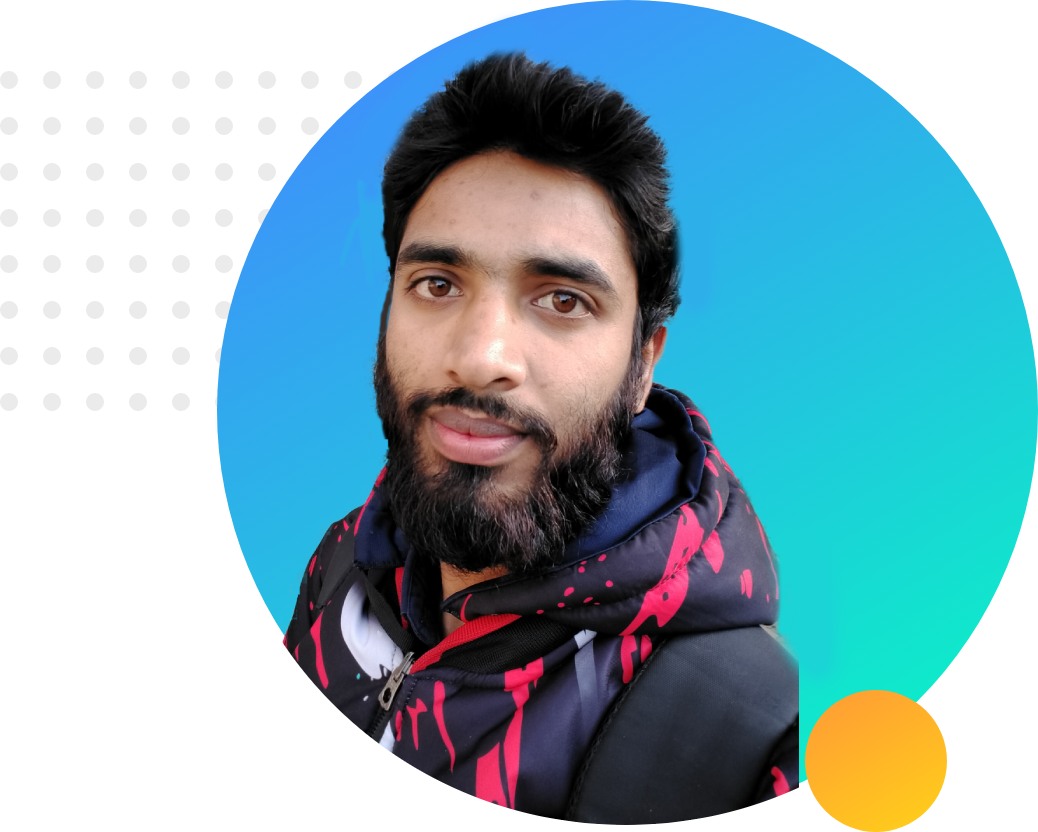
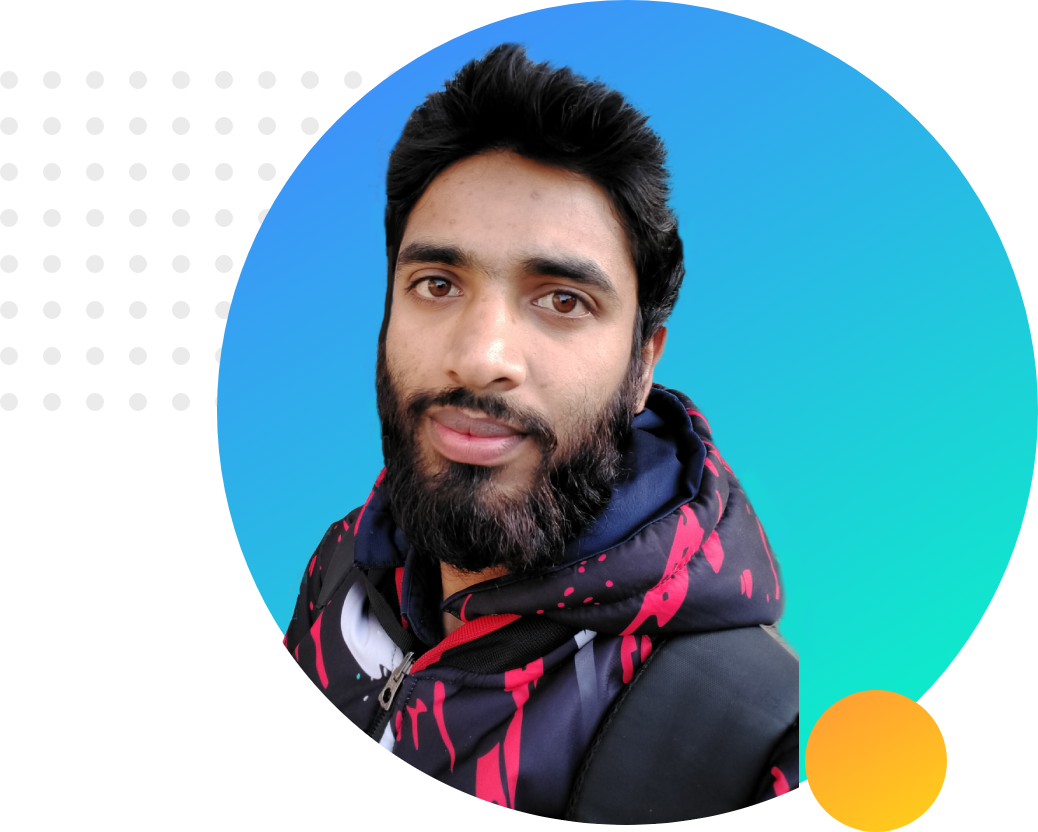
web portfolio

diff --git a/index.html b/index.html
@@ -12,14 +12,48 @@
     <section class="top-banner">
         <div class="half-width">
             <h1>Welcome To</h1>
-            <h1><span class="name-highlight">Sayem Parvez</span> Website</h1>
-            <h3>Word-Class Professional Web Developer</h3>
-            <p>You might saw me jumping, climbing buildings, and stopping trains. But nobody pays me a dime for that work. That's why I am learning and mastering web development. I will not stop until I become the Web Development Hero.</p>
+            <h1><span class="orange-highlight">Sayem</span> Website</h1>
+            <h3>World-Class Professional Web Developer</h3>
+            <p>You might saw me jumping, climbing buildings, and stopping trains. But nobody pays me a dime for that work. That's why I am learning and mastering web development. I will not stop until I become the Web Development Hero.
+            </p>
             <a class="link-button" target="_blank" href="https://web.programming-hero.com/"> HIRE ME</a>
         </div>
         <div class="half-width">
-            <img src="images/profile1.png" alt="">
+            <img src="images/profile2.png" alt="">
         </div>
     </section>
+    <section class="bottom-banner">
+        <div class="half-width">
+            <img src="images/profile1.png" alt="">
+        </div>
+        <div class="half-width">
+            <h2>Dream Big</h1>
+            <h3>Become a Web Developer</h3>
+            <p>
+                I already learned the basic HTML and CSS. I can build any simple website. I can even teach my grandma how to make simple website. My goal is to build 3 websites and learn advanced topics
+            </p>
+            <a class="link-button" target="_blank" href="https://web.programming-hero.com/">DOWNLOAD RESUME</a>
+        </div>
+    </section>
+    <section class="experienxe-area">
+        <h2>Experiences</h2>
+        <div id="full-stack" class="half-width single-experience">
+            <h2>Full Stack Web Developer</h2>
+            <h3 class="orange-highlight">2021-Present | Pro Level Developer</h3>
+            <p>
+                I am the master of HTML, CSS and Javascript. I know everything needed to make a website function, efficient. I didn't stop with the web. I went beyond with most popular Javascript framework called Vue JS. I even know the deployment, server and security. I will give you 100% web solution.
+            </p>
+        </div>
+        <div id="baby-web" class="half-width single-experience">
+            <h2>Baby Web Developer</h2>
+            <h3 class="orange-highlight">2020-2021 | Programming Hero Learner</h3>
+            <p>
+                They didn't offer me a job. But I made myself as a remove web developer. I made their website and showed it to them. They liked it. And uploaded the content. It was fun working at Programming Hero.
+            </p>
+        </div>
+    </section>
+    <footer>
+        <p>© Peter Parker 2021, all rights reserved</p>
+    </footer>
 </body>
 </html>

diff --git a/style.css b/style.css
@@ -3,9 +3,15 @@ body{
     font-family: 'Poppins', sans-serif;
 }
 h1{
-    font-size: 50;
+    font-size: 50px;
 }
-.name-highlight{
+h2{
+    font-size: 40px;
+}
+p{
+    color: dimgray;
+}
+.orange-highlight{
     color: orange;
 }
 .half-width{
@@ -23,6 +29,7 @@ h1{
 }
 section{
     height: 500px;
+    padding-bottom: 80px;
 }
 .link-button{
     text-decoration: none;
@@ -31,4 +38,35 @@ section{
     border-radius: 5px;
     color: white;
     font-weight: 700;
+}
+.bottom-banner{
+    background-image: url(images/dream-bg.png);
+    background-repeat: no-repeat;
+    background-position: right;
+}
+.single-experience{
+    box-shadow: 10px 10px 40px grey;
+    border-radius: 6px;
+    height: 75%;
+    background-color: white;
+}
+
+.experienxe-area{
+ background-image: url(images/exp-bg.png);
+ background-repeat: no-repeat;
+ background-position: left; 
+}
+#full-stack{
+    border-left: 7px solid;
+    border-image: linear-gradient(180deg, lightSalmon, tomato);
+    border-image-slice: 1;
+}
+#baby-web{
+    border-left: 7px solid;
+    border-image: linear-gradient(180deg, blue, cyan);
+    border-image-slice: 1;
+}
+
+footer{
+    text-align: center;
 }
